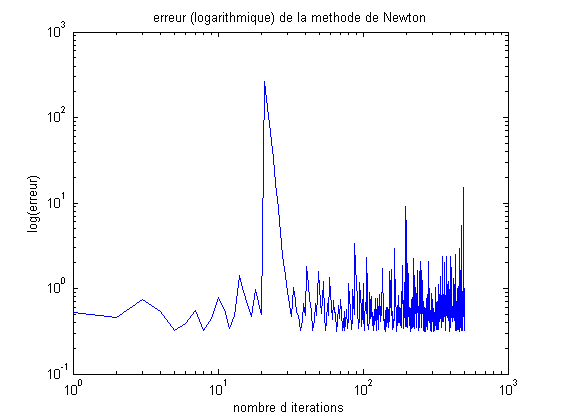
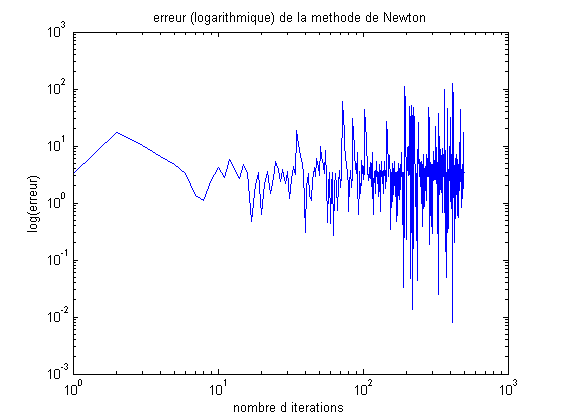
q2 updates

diff --git a/devoir3/Q2/q2.tex b/devoir3/Q2/q2.tex
@@ -100,7 +100,7 @@ La fonction $G$ n'a plus que deux racines (cf. figure \ref{FigNewtonv1inW}).
 
 
 \subsubsection{Étude de la convergence}
-Prenons une matrice aléatoire $A$ de taille 5 (randn(5)). Soit $w=[1,0,0,0,0]$ et $W_{\bot}$ sont complément orthogonal. Appliquons la méthode de Newton. Les graphes de l'erreur sont donnés à la figure \ref{plor_erreur}. On observe différents comportement de la méthode de Newton. Le graphe en haut à gauche correspond au cas où Newton converge vers la solution. La droite de l'erreur à une pente qui vaut approximativement 2 ce qui correspond donc bien à une convergence d'ordre 2 (puisque on est dans un plot logarithmique, une pente de 2 signifie 2 chiffres significatif à chaque itération et donc un ordre de convergence quadratique). Remarquons que après un certain nombre d'itération, l'erreur stagne (typiquement autour des $1e-16$ ou $1e-17$) pour des raisons numériques liées à la capacité de l'ordinateur. Le graphe du haut à droite laisse entendre que la méthode a d'abord diverger puis s'est mis à converger. Le graphe du bas à gauche correspond au cas où la méthode diverge mais avec une erreur qui se stabilise après un certain temps. Et le dernier graphe correspond au cas où la méthode diverge purement et simplement.
+Prenons des matrices aléatoires $A$ de taille 5 (randn(5)). Soit $w=[1,0,0,0,0]$ et $W_{\bot}$ son complément orthogonal. Appliquons la méthode de Newton. Les graphes de l'erreur à chaque itération sont donnés à la figure \ref{plor_erreur}. On observe différents comportement de la méthode de Newton. Le graphe en haut à gauche correspond au cas où Newton converge vers la solution. La "droite" de l'erreur à une pente qui vaut approximativement 2 ce qui correspond donc bien à une convergence d'ordre 2 (puisque on est dans un plot logarithmique, une pente de 2 signifie 2 chiffres significatif à chaque itération et donc un ordre de convergence quadratique). Remarquons que après un certain nombre d'itération, l'erreur stagne (typiquement autour des $1e-16$) pour des raisons numériques liées à la capacité de l'ordinateur. Le graphe du haut à droite laisse entendre que la méthode a d'abord légèrement diverger puis s'est mis à converger très rapidement. Les graphes du bas correspondent au cas où la méthode diverge purement et simplement.
 \begin{table}
 \centering
 \begin{tabular}{cccc}
@@ -111,8 +111,8 @@ itération & erreur (sur $y+$) & itération & erreur\\
 \begin{figure}
 \centering
 \begin{tabular}{cc}
-\includegraphics[width = 10cm]{erreur5.png} & \includegraphics[width = 10cm]{erreur2.png}\\
-\includegraphics[width = 10cm]{erreur.png} & \includegraphics[width = 10cm]{erreur4.png}\\
+\includegraphics[width = 8cm]{erreur2.png} & \includegraphics[width = 8cm]{erreur5.png}\\
+\includegraphics[width = 8cm]{erreur.png} & \includegraphics[width = 8cm]{erreur4.png}\\
 \end{tabular}
 \caption{Plot logarithmique de l'erreur à chaque itération (loglog(erreur)). }
 \label{plor_erreur}

diff --git a/devoir3/NR.m b/devoir3/NR.m
@@ -1,4 +1,4 @@
-function [y i Q] = NR(y, w, W, A)
+function [y i Q G erreur] = NR(y, w, W, A)
 %NR Newton-Raphson implementation for non symetric matrix
 %
 i = 1;
@@ -19,8 +19,9 @@ while i < 500 && err > eLim
     end
     i = i + 1;
 end
+G = W'*A*(w+W*y)-w'*A*(w+W*y)*y;
 y=w+W*y;
-y=y/norm(y);
+%y=y/norm(y);
 
 erreur = zeros(i,1);
 
@@ -28,7 +29,7 @@ erreur = zeros(i,1);
      erreur(j)=norm(w+W*Q(1:l-1, j) - y);
  end
 figure(1)
-loglog(1:i,erreur);
+loglog(1:i,erreur,'b');
 title('erreur (logarithmique) de la methode de Newton');
 xlabel('nombre d iterations');
 ylabel('log(erreur)');

diff --git a/devoir3/TestNewton2.m b/devoir3/TestNewton2.m
@@ -21,7 +21,7 @@ W=eye(n);
 W=W(:,2:end);
 y=0.5*ones(n-1,1);
 
-[vecteur2 iter2 Q] = NR(y,w ,W ,A2) 
+[vecteur2 iter2 Q G erreur] = NR(y,w ,W ,A2) 
 
 % % Matrice 1 10*10
 % n=10;
